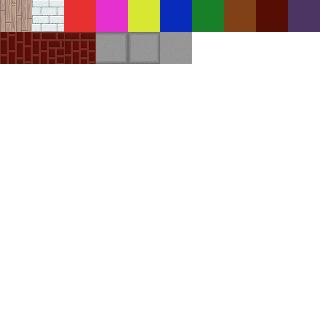
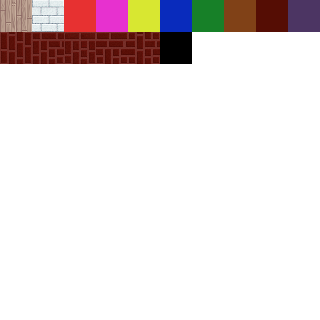
walls ez pz extra dz

diff --git a/dungeon-game-core/src/com/dungeon/game/generator/Generation.java b/dungeon-game-core/src/com/dungeon/game/generator/Generation.java
@@ -10,10 +10,14 @@ import com.dungeon.game.world.World;
 
 public abstract class Generation {
 	protected World world;
+	
 	protected int width;
 	protected int height;
-	protected int[][] map;
-	protected int[][] rotations;
+	
+	public int[][] map;
+	public int[][] rotations;
+	public boolean[][] flips;
+	
 	protected ArrayList<Entity> entities;
 	
 	public ArrayList<Area> areas;
@@ -23,19 +27,12 @@ public abstract class Generation {
 		this.width = width;
 		map = new int[height][width];
 		rotations = new int[height][width];
+		flips = new boolean[height][width];
 		entities = new ArrayList<Entity>();
 		
 		generateClearDungeon();
 		this.world = world;
 		
-	}
-	
-	public int[][] getMap(){
-		return map;
-	}
-	
-	public int[][] getRotations(){
-		return rotations;
 	}
 	
 	public ArrayList<Entity> getEntities(){
@@ -45,8 +42,9 @@ public abstract class Generation {
 	public void generateClearDungeon(){
 		for(int i = 0; i<map.length;i++){
 			for(int k = 0; k<map[i].length;k++){
-				map[i][k]=1;
+				map[i][k]=15;
 				rotations[i][k]=0;
+				flips[i][k] = false;
 			}
 		}
 	}
@@ -54,6 +52,113 @@ public abstract class Generation {
 	public void addDoor(int x, int y, int dir){
 		if(dir==0)entities.add(new Door(world, x*Tile.TS,y*Tile.TS,0));
 		if(dir==1)entities.add(new Door(world, x*Tile.TS,y*Tile.TS,1));
+	}
+	
+	public void makeWalls(int strt_id, int bent_id, int revr_id, int thre_id, int four_id) {
+		for(int i = 0; i < map.length; i++) {
+			for(int k = 0; k < map[0].length; k++) {
+				if(Tile.isSolid(map[i][k])) {
+					int sides = 0;
+					int corners = 0;
+					
+					if(k != 0 && !Tile.isSolid(map[i][k-1])) sides += 1;
+					if(i != 0 && !Tile.isSolid(map[i-1][k])) sides += 2;
+					if(k != map[i].length-1 && !Tile.isSolid(map[i][k+1])) sides += 4;
+					if(i != map.length-1 && !Tile.isSolid(map[i+1][k])) sides += 8;
+					
+					if(i != 0 && k != 0 && !Tile.isSolid(map[i-1][k-1])) corners += 1;
+					if(i != map.length-1 && k != 0 && !Tile.isSolid(map[i+1][k-1])) corners += 2;
+					if(i != 0 && k != map[i].length-1 && !Tile.isSolid(map[i-1][k+1])) corners += 4;
+					if(i != map.length-1 && k != map[i].length-1 && !Tile.isSolid(map[i+1][k+1])) corners += 8;
+					
+					if(sides == 1 || sides == 5) {
+						map[i][k] = strt_id;
+						flips[i][k] = false;
+						rotations[i][k] = 0;
+					}
+					else if(sides == 4) {
+						map[i][k] = strt_id;
+						flips[i][k] = false;
+						rotations[i][k] = 2;
+					}
+					else if(sides == 2 || sides == 10) {
+						map[i][k] = strt_id;
+						flips[i][k] = false;
+						rotations[i][k] = 1;
+					}
+					else if(sides == 8) {
+						map[i][k] = strt_id;
+						flips[i][k] = false;
+						rotations[i][k] = 3;
+					}
+					else if(sides == 14) {
+						map[i][k] = revr_id;
+						flips[i][k] = false;
+						rotations[i][k] = 1;
+					}
+					else if(sides == 13) {
+						map[i][k] = revr_id;
+						flips[i][k] = false;
+						rotations[i][k] = 0;
+					}
+					else if(sides == 11) {
+						map[i][k] = revr_id;
+						flips[i][k] = false;
+						rotations[i][k] = 3;
+					}
+					else if(sides == 7) {
+						map[i][k] = revr_id;
+						flips[i][k] = false;
+						rotations[i][k] = 2;
+					}
+					else if(sides == 3) {
+						map[i][k] = bent_id;
+						flips[i][k] = true;
+						rotations[i][k] = 3;
+					}
+					else if(sides == 6) {
+						map[i][k] = bent_id;
+						flips[i][k] = false;
+						rotations[i][k] = 2;
+					}
+					else if(sides == 9) {
+						map[i][k] = bent_id;
+						flips[i][k] = false;
+						rotations[i][k] = 0;
+					}
+					else if(sides == 12) {
+						map[i][k] = bent_id;
+						flips[i][k] = true;
+						rotations[i][k] = 1;
+					}
+					else if(corners == 1) {
+						map[i][k] = bent_id;
+						flips[i][k] = false;
+						rotations[i][k] = 1;
+					}
+					else if(corners == 2) {
+						map[i][k] = bent_id;
+						flips[i][k] = true;
+						rotations[i][k] = 2;
+					}
+					else if(corners == 4) {
+						map[i][k] = bent_id;
+						flips[i][k] = true;
+						rotations[i][k] = 0;
+					}
+					else if(corners == 8) {
+						map[i][k] = bent_id;
+						flips[i][k] = false;
+						rotations[i][k] = 3;
+					}
+					else if(sides == 0 && (corners == 6 || corners == 9 || corners == 14 || corners == 13 || corners == 11 || corners == 7)){
+						map[i][k] = four_id;
+						flips[i][k] = false;
+						rotations[i][k] = 0;
+					}
+				}
+			}
+		}
 	}
 	
 	public abstract void generateAreas();

diff --git a/dungeon-game-core/src/com/dungeon/game/world/Floor.java b/dungeon-game-core/src/com/dungeon/game/world/Floor.java
@@ -43,26 +43,36 @@ public class Floor {
 		else if(type.equals("village_rooms"))gen = new VillageRooms(world, width, height,centerX,centerY, upTrapX, upTrapY);
 		else gen = new Rooms(world, width, height,centerX,centerY, upTrapX, upTrapY);
 
-		int[][] map = gen.getMap();
-		int[][] rotations = gen.getRotations();
+		int[][] map = gen.map;
+		int[][] rotations = gen.rotations;
+		boolean[][] flips = gen.flips;
+		
 		entities = gen.getEntities();
 		
 		Texture[] texturesTemp = Spritesheet.getSprites(DEFAULT, 32, 32);
-		textures = new Texture[texturesTemp.length][4];
+		textures = new Texture[texturesTemp.length][8];
 		for(int i = 0; i < texturesTemp.length; i++){
 			textures[i][0] = texturesTemp[i];
 			
 			if(!texturesTemp[i].getTextureData().isPrepared()) texturesTemp[i].getTextureData().prepare();
 			Pixmap tempMap = texturesTemp[i].getTextureData().consumePixmap();
 			for(int k = 1; k<4; k++){
+				
 				textures[i][k] = new Texture(Spritesheet.rotatePixmap(tempMap, k));
 			}
+			
+			for(int k = 4; k<8; k++){
+				
+				textures[i][k] = new Texture(Spritesheet.rotatePixmap(Spritesheet.flipPixmap(tempMap), k==4?3:k-5));
+			}
+			
+			
 			tempMap.dispose();
 		}
 
 		for(int i = 0;i<tm.length;i++){
 			for(int k = 0;k<tm[i].length;k++){
-				tm[i][k] = new Tile(textures,map[i][k],rotations[i][k]);
+				tm[i][k] = new Tile(textures,map[i][k],rotations[i][k], flips[i][k]);
 			}
 		}
 		corners = new ArrayList<int[]>();
@@ -161,7 +171,7 @@ public class Floor {
 		
 		for(int i = startHeight; i < endHeight; i++){
 			for(int k = startWidth; k < endWidth; k++){
-				batch.draw(tm[i][k].textures[tm[i][k].rotation], k*Tile.TS, i*Tile.TS);
+				batch.draw(tm[i][k].textures[tm[i][k].rotation+(tm[i][k].flip?4:0)], k*Tile.TS, i*Tile.TS);
 			}
 		}
 	}

diff --git a/dungeon-game-core/src/com/dungeon/game/spritesheet/Spritesheet.java b/dungeon-game-core/src/com/dungeon/game/spritesheet/Spritesheet.java
@@ -37,16 +37,17 @@ public class Spritesheet {
 			    }
 			}
 			textures[i] = new Texture(tempMap);
-//			tempMap.dispose();
 		}
 		wholePixmap.dispose();
 		
 		return textures;
 	}
 	
-	public static Pixmap rotatePixmap (Pixmap src, int numRotates){
+	public static Pixmap rotatePixmap(Pixmap src, int numRotates){
 		if(numRotates == 0) return src;
+		
 		Pixmap rotated = new Pixmap(src.getHeight(), src.getWidth(), src.getFormat());
+		
 		for (int x = 0; x < src.getWidth(); x++) {
 	        for (int y = 0; y < src.getHeight(); y++) {
 	        	int offx = x - src.getWidth()/2, offy = y - src.getHeight()/2+1;
@@ -55,8 +56,21 @@ public class Spritesheet {
 	        }
 		}
 		if(numRotates == 1)return rotated;
+		
 		return rotatePixmap(rotated, numRotates-1);
 		
+	}
+	
+	public static Pixmap flipPixmap(Pixmap src) {
+		Pixmap flipped = new Pixmap(src.getHeight(), src.getWidth(), src.getFormat());
+		
+		for (int x = 0; x < src.getWidth(); x++) {
+	        for (int y = 0; y < src.getHeight(); y++) {
+	        	flipped.drawPixel(x, y, src.getPixel(src.getWidth()-x-1, y));
+	        }
+		}
+		
+		return flipped;
 	}
 	
 	public static Texture Tint(Texture src, Color color, boolean alpha){

diff --git a/dungeon-game-core/src/com/dungeon/game/world/Tile.java b/dungeon-game-core/src/com/dungeon/game/world/Tile.java
@@ -1,30 +1,36 @@
 package com.dungeon.game.world;
 
-import com.badlogic.gdx.graphics.Pixmap;
 import com.badlogic.gdx.graphics.Texture;
-import com.badlogic.gdx.graphics.g2d.TextureRegion;
-import com.dungeon.game.spritesheet.Spritesheet;
 
 public class Tile {
 	public static final int TS = 32;
 	public int id;
 	public int data;
+	public boolean flip;
 	public int rotation;
 	public Texture[] textures;
+	public static final int[] SOLIDS = new int[]{1,10,11,12,13,14,15};
 	
 	public Tile(Texture[][] spritesheet, int id) {
 		this.id = id;
-		data = (id==1||id==10||id==11||id==12) ? 1:0;
+		data = (isSolid(id)) ? 1:0;
 		rotation = 0;
 		
 		textures = spritesheet[id];
 	}
 	
-	public Tile(Texture[][] spritesheet, int id, int rotation) {
+	public Tile(Texture[][] spritesheet, int id, int rotation, boolean flip) {
 		this.id = id;
-		data = (id==1||id==10||id==11||id==12) ? 1:0;
+		data = (isSolid(id)) ? 1:0;
+		
 		this.rotation = rotation;
+		this.flip = flip;
 		
 		textures = spritesheet[id];
+	}
+	
+	public static boolean isSolid(int id){
+		for(int i = 0; i < SOLIDS.length; i++) if(SOLIDS[i] == id) return true;
+		return false;
 	}
 }

diff --git a/dungeon-game-core/src/com/dungeon/game/generator/VillageRooms.java b/dungeon-game-core/src/com/dungeon/game/generator/VillageRooms.java
@@ -44,6 +44,8 @@ public class VillageRooms extends Generation {
 
 		generateStartRoom(centerX, centerY);
 		populateSpecialRooms();
+		
+		makeWalls(10, 11, 12, 13, 14);
 	}
 
 	public boolean generateStartRoom(int x, int y){

diff --git a/dungeon-game-core/src/com/dungeon/game/generator/Rooms.java b/dungeon-game-core/src/com/dungeon/game/generator/Rooms.java
@@ -27,6 +27,8 @@ public class Rooms extends Generation {
 
 		generateStartRoom(centerX, centerY);
 		generateStairDown();
+		
+		makeWalls(10, 11, 12, 13, 14);
 	}
 	
 	public boolean generateStartRoom(int x, int y){
